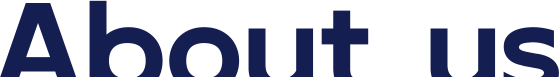
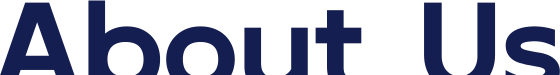
feat: refine website layout and hero performance

diff --git a/styles.css b/styles.css
@@ -123,11 +123,19 @@ img { display: block; max-width: 100%; }
 .homeHero {
   position: relative;
   min-height: 669px;
-  background: #fff url("./public/design/home-hero.jpg") center bottom / cover no-repeat;
+  background-color: #fff;
+  background-image: url("./public/design/home-hero.jpg");
+  background-image: image-set(
+    url("./public/design/home-hero.webp") type("image/webp"),
+    url("./public/design/home-hero.jpg") type("image/jpeg")
+  );
+  background-position: right bottom;
+  background-repeat: no-repeat;
+  background-size: auto max(100%, 34.84vw);
 }
 .homeHeroCopy {
-  width: min(100% - 104px, 1816px);
-  margin: 0 auto;
+  width: auto;
+  margin: 0 max(5.2vw, 32px);
   padding-top: 57px;
 }
 .heroPartner { width: 164px; height: 63px; margin-bottom: 40px; object-fit: contain; }
@@ -352,18 +360,22 @@ img { display: block; max-width: 100%; }
   display: grid;
   grid-template-columns: 558px 1fr;
   gap: 107px;
-  align-items: center;
+  align-items: start;
   padding-bottom: 150px;
 }
 .aboutOverview > img { width: 100%; height: auto; }
 .aboutOverview > div {
+  display: flex;
   width: min(100%, 27.2em);
+  align-self: stretch;
+  flex-direction: column;
   font-size: 19px;
 }
 .aboutOverview h2 { margin: 0 0 32px; font-size: clamp(48px, 4.2vw, 80px); line-height: 1; }
-.aboutOverview p { margin: 0 0 23px; font-size: 1em; line-height: 2.05; }
+.aboutOverview p { margin: 0 0 23px; font-size: 1em; line-height: 3.2; }
 .aboutOverview .letterline {
-  margin-top: 8px;
+  margin-top: auto;
+  margin-bottom: 0;
   padding-top: 2px;
   border-top: 2px solid #8490b3;
   color: #8490b3;
@@ -398,6 +410,7 @@ img { display: block; max-width: 100%; }
 .businessIntro h1 { font-size: clamp(54px, 8vw, 150px); }
 .businessIntro .pageTitleTagline { font-size: clamp(18px, 1.55vw, 29px); }
 .businessIntro p { max-width: 1270px; margin: 24px 0; font-size: clamp(16px, 1.18vw, 22px); line-height: 1.55; }
+.businessIntro > p { font-weight: 300; }
 .businessIntro p:last-child { margin-top: 42px; }
 .businessGallery {
   display: grid;
@@ -761,8 +774,8 @@ body.hasOpenDialog { overflow: hidden; }
 .footerColumn h2 { margin: 0 0 5px; font-size: 28px; }
 .footerColumn a { font-size: 18px; font-weight: 400; }
 .footerPartner { display: grid; justify-items: start; gap: 22px; }
-.footerPartnerBadge { width: 345px; height: auto; }
-.footerQr { width: 345px; height: auto; object-fit: contain; }
+.footerPartnerBadge { width: 280px; height: auto; }
+.footerQr { width: 280px; height: auto; object-fit: contain; }
 
 @media (min-width: 821px) and (max-width: 1600px) {
   :root { --page: min(100% - 5.42vw, 1330px); }
@@ -786,7 +799,6 @@ body.hasOpenDialog { overflow: hidden; }
   .businessSubnav a { padding: .57vw 1.15vw; font-size: clamp(13px, .78vw, 15px); }
   .homeHero { min-height: 34.84vw; }
   .homeHeroCopy {
-    width: calc(100% - 5.42vw);
     padding-top: 2.97vw;
   }
   .heroPartner {
@@ -852,6 +864,7 @@ body.hasOpenDialog { overflow: hidden; }
   .aboutOverview p {
     margin-bottom: 1.2vw;
     font-size: 1em;
+    line-height: 2.9;
   }
   .complianceBand {
     gap: 4.17vw;
@@ -927,8 +940,8 @@ body.hasOpenDialog { overflow: hidden; }
   .footerColumn h2 { font-size: clamp(21px, 1.46vw, 27px); }
   .footerColumn a { font-size: clamp(14px, .94vw, 17px); }
   .footerPartner { gap: 1.15vw; }
-  .footerPartnerBadge { width: 17.97vw; }
-  .footerQr { width: 17.97vw; height: auto; }
+  .footerPartnerBadge { width: 14.58vw; }
+  .footerQr { width: 14.58vw; height: auto; }
 }
 
 @media (min-width: 821px) {
@@ -1043,10 +1056,10 @@ body.hasOpenDialog { overflow: hidden; }
   .businessSubnav a { padding: 10px 0; text-align: left; }
   .homeHero {
     min-height: 660px;
-    background-position: 70% bottom;
+    background-position: calc(70vw - 103px) bottom;
     background-size: auto 100%;
   }
-  .homeHeroCopy { width: auto; padding: 47px 20px 0; }
+  .homeHeroCopy { width: auto; margin: 0; padding: 47px 20px 0; }
   .homeHero h1 { gap: 22px; font-size: clamp(32px, 8.3vw, 54px); }
   .homeHero h1 span { max-width: 620px; white-space: normal; }
   .stats { min-height: 0; grid-template-columns: 1fr; gap: 46px; padding: 62px 20px; }
@@ -1169,7 +1182,7 @@ body.hasOpenDialog { overflow: hidden; }
 }
 
 @media (max-width: 520px) {
-  .homeHero { min-height: 600px; background-position: 75% bottom; }
+  .homeHero { min-height: 600px; background-position: calc(75vw - 198px) bottom; }
   .pillButton { min-width: 145px; min-height: 45px; }
   .complianceBand { grid-template-columns: 1fr; }
   .alignment li { grid-template-columns: 64px 1fr; gap: 12px; }

diff --git a/about/index.html b/about/index.html
@@ -6,7 +6,7 @@
     <meta name="description" content="About Freyr AI and its NVIDIA-aligned infrastructure platform.">
     <title>About Us — Freyr AI</title>
     <link rel="icon" href="../public/favicon-logo.png" type="image/png">
-    <link rel="stylesheet" href="../styles.css?v=20260731-4">
+    <link rel="stylesheet" href="../styles.css?v=20260804-1">
     <script src="../script.js?v=20260731-1" defer></script>
   </head>
   <body>
@@ -37,8 +37,9 @@
       <section class="aboutOverview contentWidth">
         <img src="../public/design/about-building.jpg" width="558" height="624" alt="Freyr AI and NVIDIA data center" loading="eager">
         <div>
+          <h2>Freyr AI</h2>
           <p>Freyr AI is a global AI infrastructure platform that integrates high-performance infrastructure, a low-latency network, and an accessible compute marketplace.</p>
-          <p>As an NVIDIA Preferred Partner, Freyr AI combines NVIDIA Reference Architecture with standardized, rapid, and scalable delivery capabilities to provide cost-effective, energy-efficient AI computing services—powering the next generation of AI factories with trusted and scalable infrastructure.</p>
+          <p>As an NVIDIA-aligned partner with prioritized GPU access, we deliver cost-effective, energy-efficient AI computing services—providing the trusted, scalable foundation for the next generation of AI factories.</p>
           <p class="letterline">BUILD · FINANCE · OPERATE</p>
         </div>
       </section>

diff --git a/index.html b/index.html
@@ -6,7 +6,8 @@
     <meta name="description" content="Freyr AI builds, finances and operates scalable AI infrastructure.">
     <title>Freyr AI — Transform Power into Intelligence</title>
     <link rel="icon" href="./public/favicon-logo.png" type="image/png">
-    <link rel="stylesheet" href="./styles.css?v=20260731-4">
+    <link rel="preload" href="./public/design/home-hero.webp" as="image" type="image/webp" fetchpriority="high">
+    <link rel="stylesheet" href="./styles.css?v=20260804-1">
     <script src="./script.js?v=20260731-1" defer></script>
   </head>
   <body>

diff --git a/business/gpuaas/index.html b/business/gpuaas/index.html
@@ -6,7 +6,7 @@
     <meta name="description" content="Freyr GPUaaS delivers NVIDIA-powered AI compute at scale.">
     <title>GPUaaS — Freyr AI</title>
     <link rel="icon" href="../../public/favicon-logo.png" type="image/png">
-    <link rel="stylesheet" href="../../styles.css?v=20260731-4">
+    <link rel="stylesheet" href="../../styles.css?v=20260804-1">
     <script src="../../script.js?v=20260731-1" defer></script>
   </head>
   <body>

diff --git a/investors/index.html b/investors/index.html
@@ -6,7 +6,7 @@
     <meta name="description" content="Freyr AI milestones and 2026 growth roadmap.">
     <title>For Investors — Freyr AI</title>
     <link rel="icon" href="../public/favicon-logo.png" type="image/png">
-    <link rel="stylesheet" href="../styles.css?v=20260731-4">
+    <link rel="stylesheet" href="../styles.css?v=20260804-1">
     <script src="../script.js?v=20260731-1" defer></script>
   </head>
   <body>

diff --git a/templates/news-article.html b/templates/news-article.html
@@ -6,7 +6,7 @@
     <meta name="description" content="$summary">
     <title>$title — Freyr AI</title>
     <link rel="icon" href="../../public/favicon-logo.png" type="image/png">
-    <link rel="stylesheet" href="../../styles.css?v=20260731-4">
+    <link rel="stylesheet" href="../../styles.css?v=20260804-1">
     <script src="../../script.js?v=20260731-1" defer></script>
   </head>
   <body class="articlePage">

diff --git a/templates/news-index.html b/templates/news-index.html
@@ -6,7 +6,7 @@
     <meta name="description" content="The latest news from Freyr AI.">
     <title>News — Freyr AI</title>
     <link rel="icon" href="../public/favicon-logo.png" type="image/png">
-    <link rel="stylesheet" href="../styles.css?v=20260731-4">
+    <link rel="stylesheet" href="../styles.css?v=20260804-1">
     <script src="../script.js?v=20260731-1" defer></script>
   </head>
   <body>
